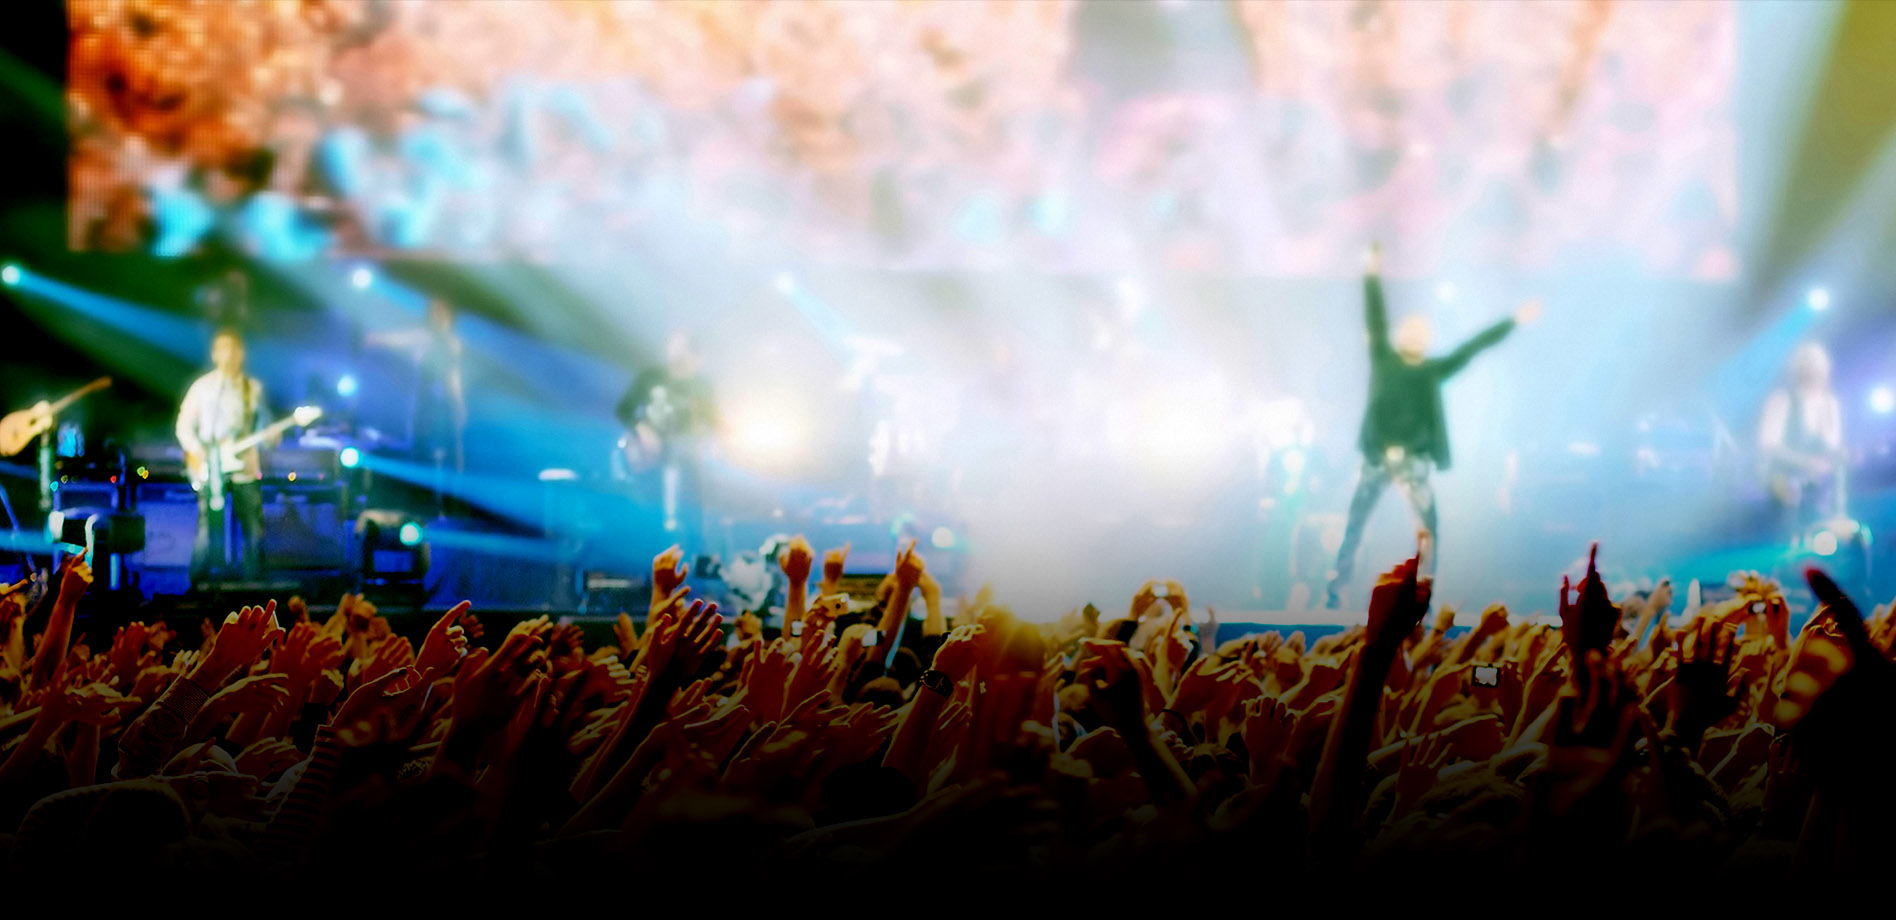
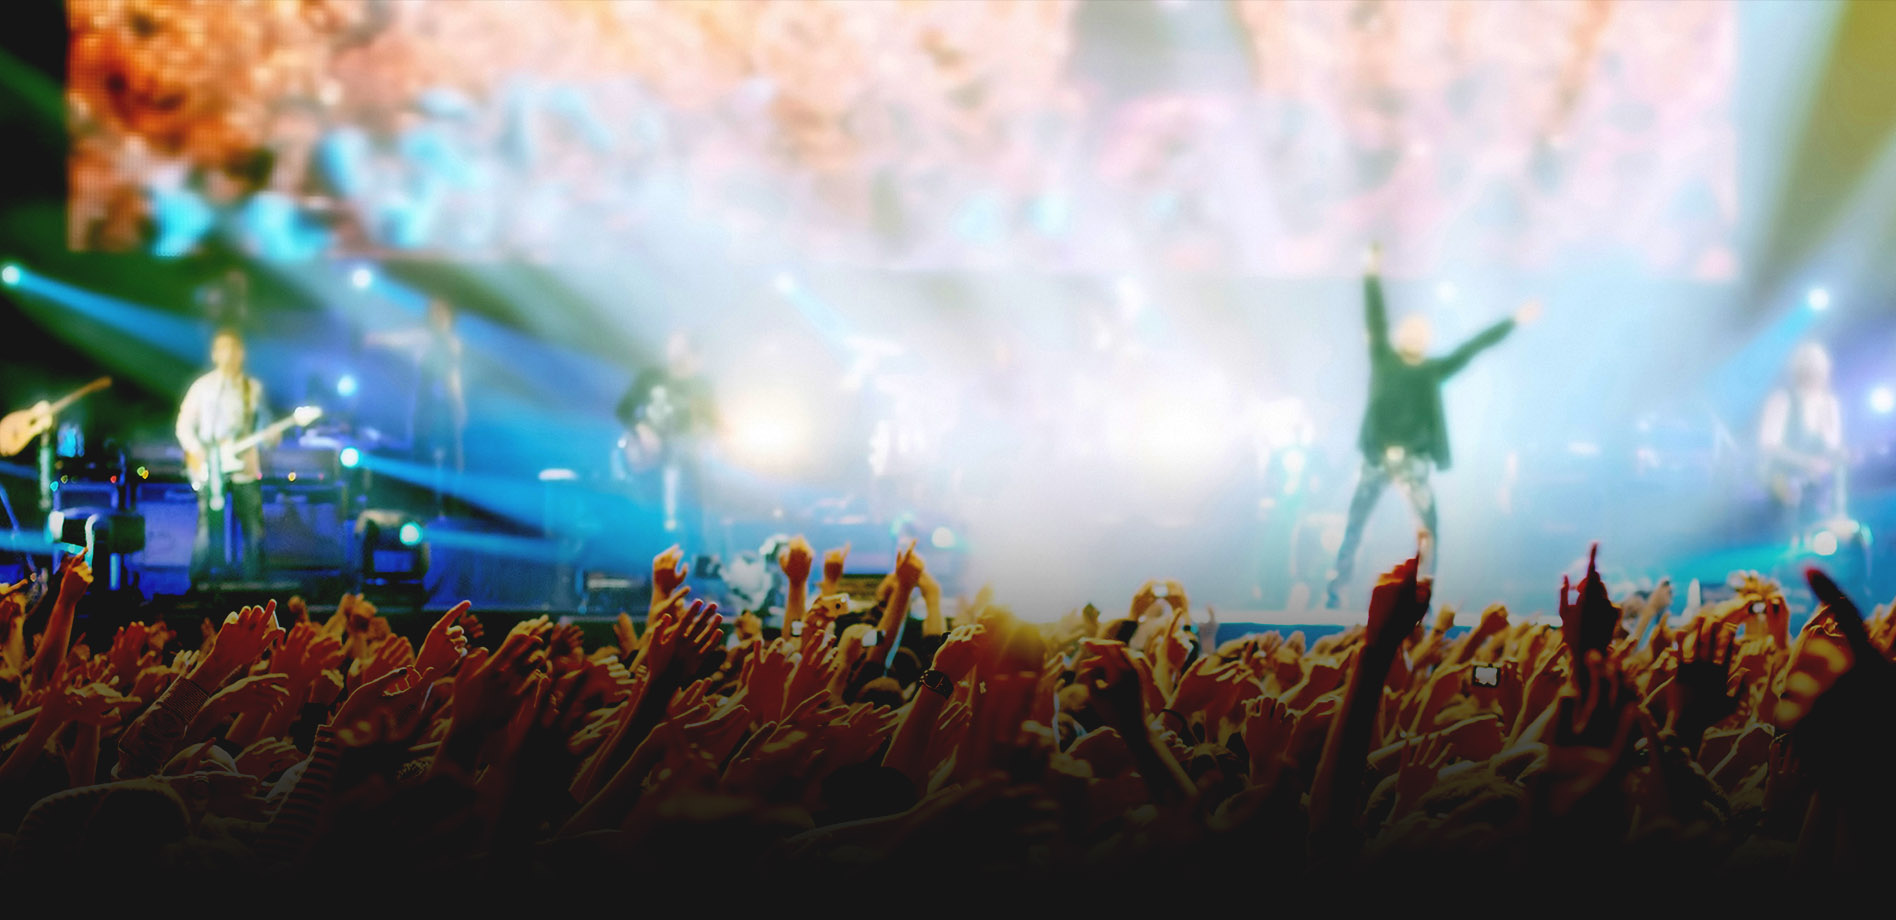
concert 4

diff --git a/routes/cmsgateway.js b/routes/cmsgateway.js
@@ -372,7 +372,7 @@ var concert = {
 var concert4 = {
   title: "Concert - Legacy of Hope",
   url: "http://legacyofhope.org/concert",
-  thumb_img: "thumb_concert.jpg",
+  thumb_img: "concert_hero4.jpg",
   description: "The LEGACY OF HOPE FOUNDATION will produce a historic evening of music and entertainment this December in support of a global campaign to fulfill the last living wish of Nelson Mandela—to build a dedicated children’s hospital in Johannesburg, South Africa.",
   stylesheet: "concert4.css",
   currentpage: "menu-concert",
@@ -587,6 +587,17 @@ var tata = {
 };
 
 
+var videoplayer = {
+  title: "Legacy of Hope Video Player",
+  url: "http://legacyofhope.org/videoplayer",
+  thumb_img: "mission_hero.jpg",
+  description: "Watch the Legacy of Hope Nelson Mandela Children's Hospital Concert.",
+  stylesheet: "videoplayer.css",
+  currentpage: "menu-concert",
+  type: "website"
+};
+
+
 exports.getPageData = function(category, page, callback) {
 	if(category === 'cms') {
     switch (page){
@@ -661,6 +672,9 @@ exports.getPageData = function(category, page, callback) {
       break;
       case 'tata':
       callback(null, tata);
+      break;
+      case 'videoplayer':
+      callback(null, videoplayer);
       break;
       default:
       callback(null, home);

diff --git a/static/css/pages/videoplayer.scss b/static/css/pages/videoplayer.scss
@@ -1,0 +1,85 @@
+@import "../variables.scss";
+
+
+
+.wrapper-spotlight{
+	// min-height: 600px;
+}
+
+
+.graca.wrapper-spotlight{
+	padding-top: 60px;
+	padding-bottom: 60px;
+}
+
+h1, h2, h3, h4{
+	text-align: center;
+}
+.graca h1{
+	font-size: 31px;
+	margin-bottom:5px;
+	// max-width: 430px;
+	margin-right: auto;
+	margin-left: auto;
+}
+
+h4{
+	-webkit-font-smoothing: antialiased;
+    -moz-osx-font-smoothing: grayscale;
+    font-size: 18px;
+    color: #a0a0a0;
+    // word-spacing: 1px;
+    // max-width: 430px;
+    margin-right: auto;
+	margin-left: auto;
+}
+
+
+.pp{
+	display: none;
+}
+
+.lilvid{
+	margin-left: auto;
+	margin-right: auto;
+}
+//  MOBILE - PORTRAIT
+
+@media only screen 
+and (max-width: $phone-landscape - 1px)  {
+
+.no-pp{
+	display: none;
+}
+.pp{
+	display: block;
+}
+
+
+}
+
+
+//  MOBILE - LANDSCAPE
+@media only screen 
+and (min-width: $phone-landscape) 
+and (max-width: $tablet-portrait - 1px)  {
+
+
+.no-pp{
+	display: none;
+}
+.pp{
+	display: block;
+}
+	
+
+}
+
+// TABLET - PORTRAIT
+@media only screen 
+and (min-width : $tablet-portrait) 
+and (max-width : $tablet-landscape - 1px) {
+
+
+}
+

diff --git a/static/css/pages/concert4.scss b/static/css/pages/concert4.scss
@@ -2,7 +2,7 @@
 
 
 .wrapper-inner{
-	background-color: black;
+	background-color: $loh-black;
 
 }
 
@@ -203,15 +203,20 @@ font-size: 40px;
 }
 
 .cta p{
-	color: white;
-	text-align: justify;
-	font-family: "Helvetica Neue Thin";
+
 	margin-bottom: 80px;
+		text-align: justify;
+	font-family: "Helvetica Neue Thin";
+    color: #e6e6e6;
+    font-size: 19px;
+    line-height: 1.55;
+    text-align: left;
+    letter-spacing: 0.4px;
 }
 
 
 .cta .button{
-	border: 1px solid rgba(200,200,200, 0.9);
+	border: 1px solid #e6e6e6;
 	background-color: transparent;
 	cursor: pointer;
 	display: inline-block;
@@ -242,7 +247,7 @@ font-size: 40px;
 .cta .button h5{
 	text-transform: uppercase;
 	font-size: 12px;
-	color: white;
+	color: #e6e6e6;
 	margin-bottom: 0;
 	vertical-align: middle;
 	line-height: 3;

diff --git a/static/css/pages/concert4.css b/static/css/pages/concert4.css
@@ -1,5 +1,5 @@
 .wrapper-inner {
-  background-color: black; }
+  background-color: #151515; }
 
 .bg {
   position: absolute;
@@ -152,13 +152,17 @@ h3 {
   margin-bottom: 150px; }
 
 .cta p {
-  color: white;
+  margin-bottom: 80px;
   text-align: justify;
   font-family: "Helvetica Neue Thin";
-  margin-bottom: 80px; }
+  color: #e6e6e6;
+  font-size: 19px;
+  line-height: 1.55;
+  text-align: left;
+  letter-spacing: 0.4px; }
 
 .cta .button {
-  border: 1px solid rgba(200, 200, 200, 0.9);
+  border: 1px solid #e6e6e6;
   background-color: transparent;
   cursor: pointer;
   display: inline-block;
@@ -179,7 +183,7 @@ h3 {
 .cta .button h5 {
   text-transform: uppercase;
   font-size: 12px;
-  color: white;
+  color: #e6e6e6;
   margin-bottom: 0;
   vertical-align: middle;
   line-height: 3;

diff --git a/static/css/pages/videoplayer.css b/static/css/pages/videoplayer.css
@@ -1,0 +1,40 @@
+.graca.wrapper-spotlight {
+  padding-top: 60px;
+  padding-bottom: 60px; }
+
+h1, h2, h3, h4 {
+  text-align: center; }
+
+.graca h1 {
+  font-size: 31px;
+  margin-bottom: 5px;
+  margin-right: auto;
+  margin-left: auto; }
+
+h4 {
+  -webkit-font-smoothing: antialiased;
+  -moz-osx-font-smoothing: grayscale;
+  font-size: 18px;
+  color: #a0a0a0;
+  margin-right: auto;
+  margin-left: auto; }
+
+.pp {
+  display: none; }
+
+.lilvid {
+  margin-left: auto;
+  margin-right: auto; }
+
+@media only screen and (max-width: 479px) {
+  .no-pp {
+    display: none; }
+
+  .pp {
+    display: block; } }
+@media only screen and (min-width: 480px) and (max-width: 767px) {
+  .no-pp {
+    display: none; }
+
+  .pp {
+    display: block; } }

diff --git a/routes/routes.js b/routes/routes.js
@@ -313,6 +313,14 @@ router.get('/sponsors', function(req, res) {
 });
 
 
+router.get('/videoplayer', function(req, res) {
+  cmsgateway.getPageData('cms', 'videoplayer', 
+    function(err, data) {
+      data.authUser = authUser;
+      res.render('videoplayer', data);
+    });
+});
+
 
 
 
